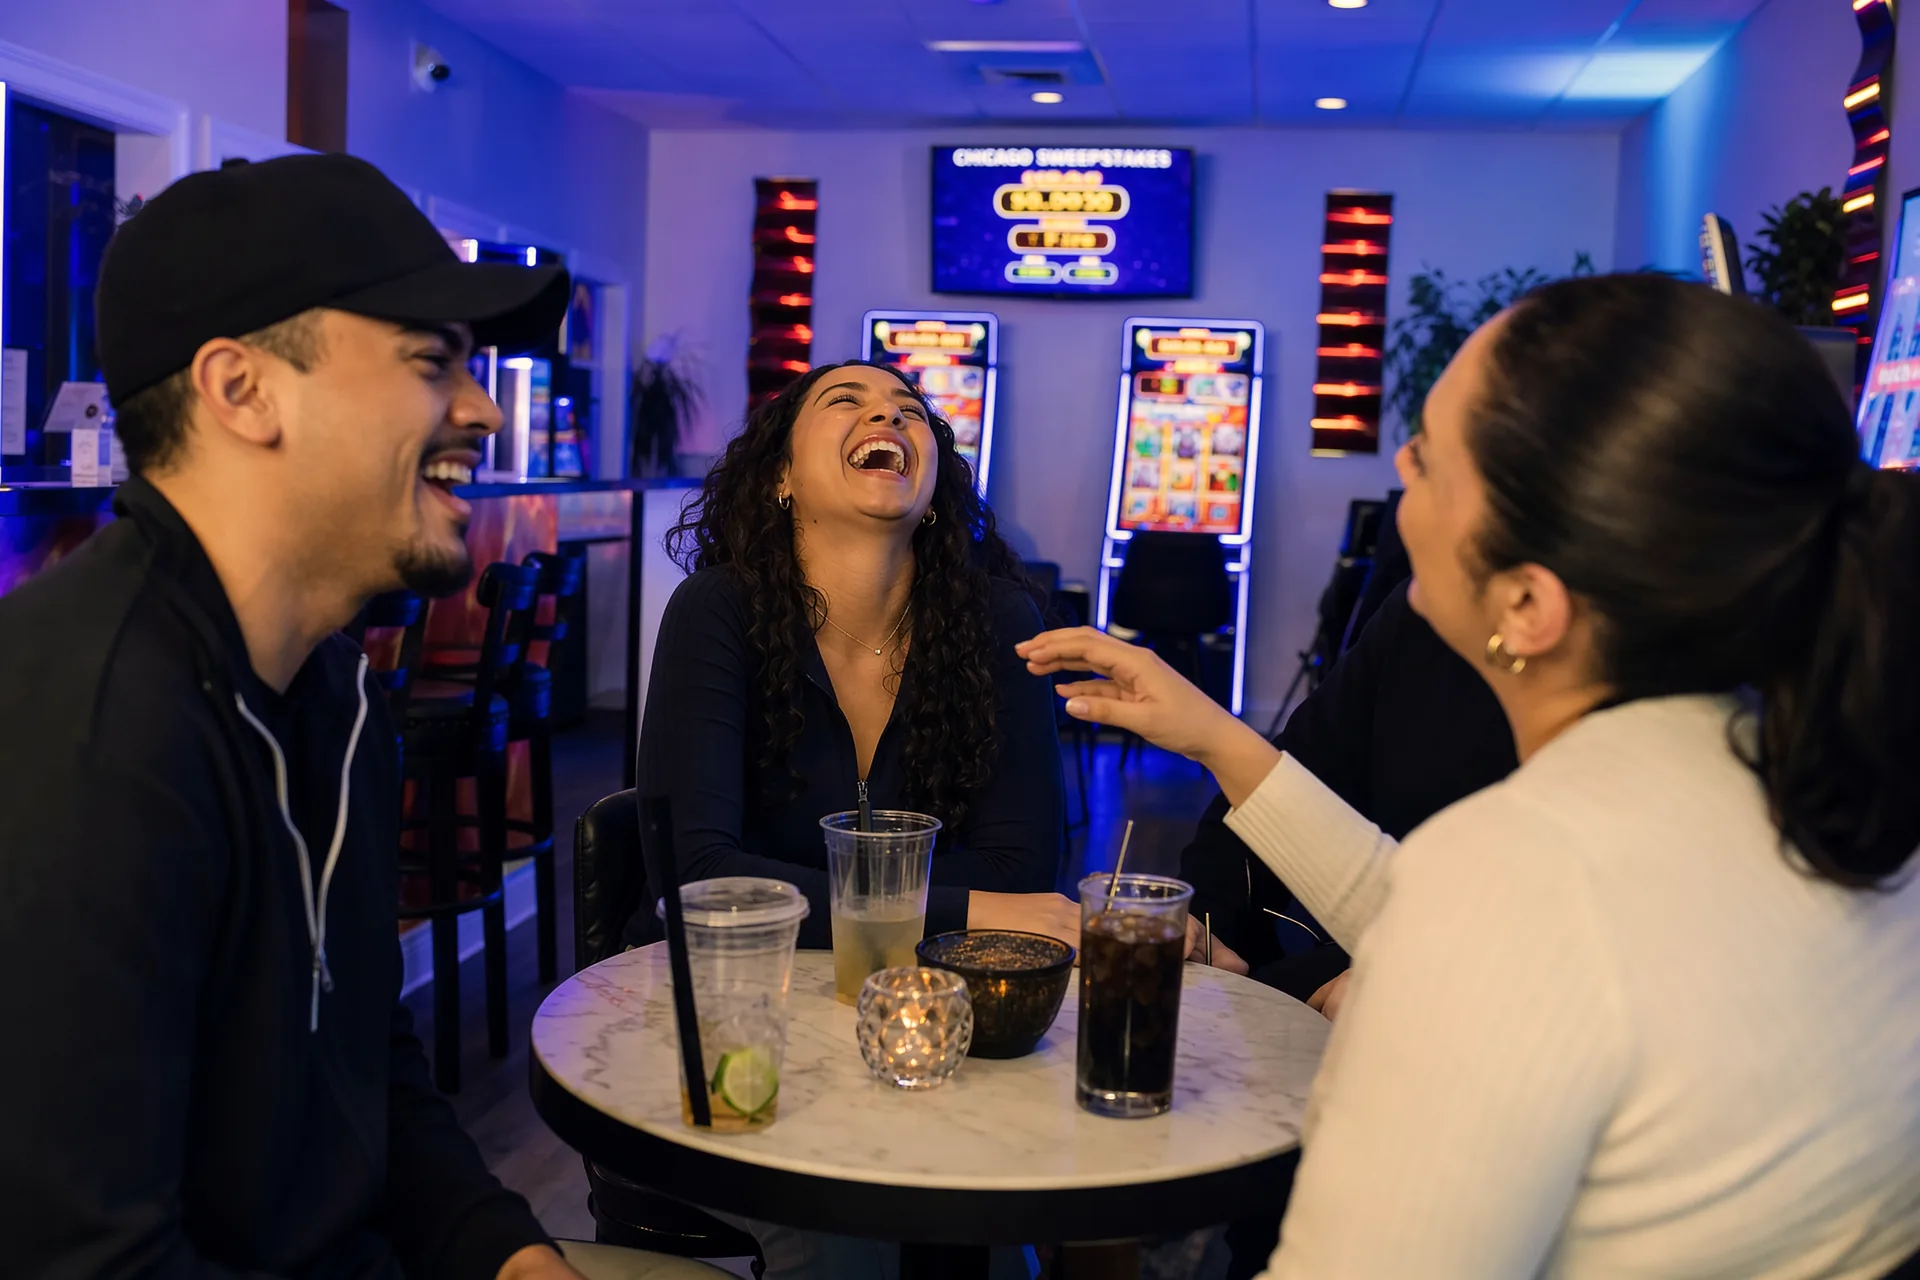
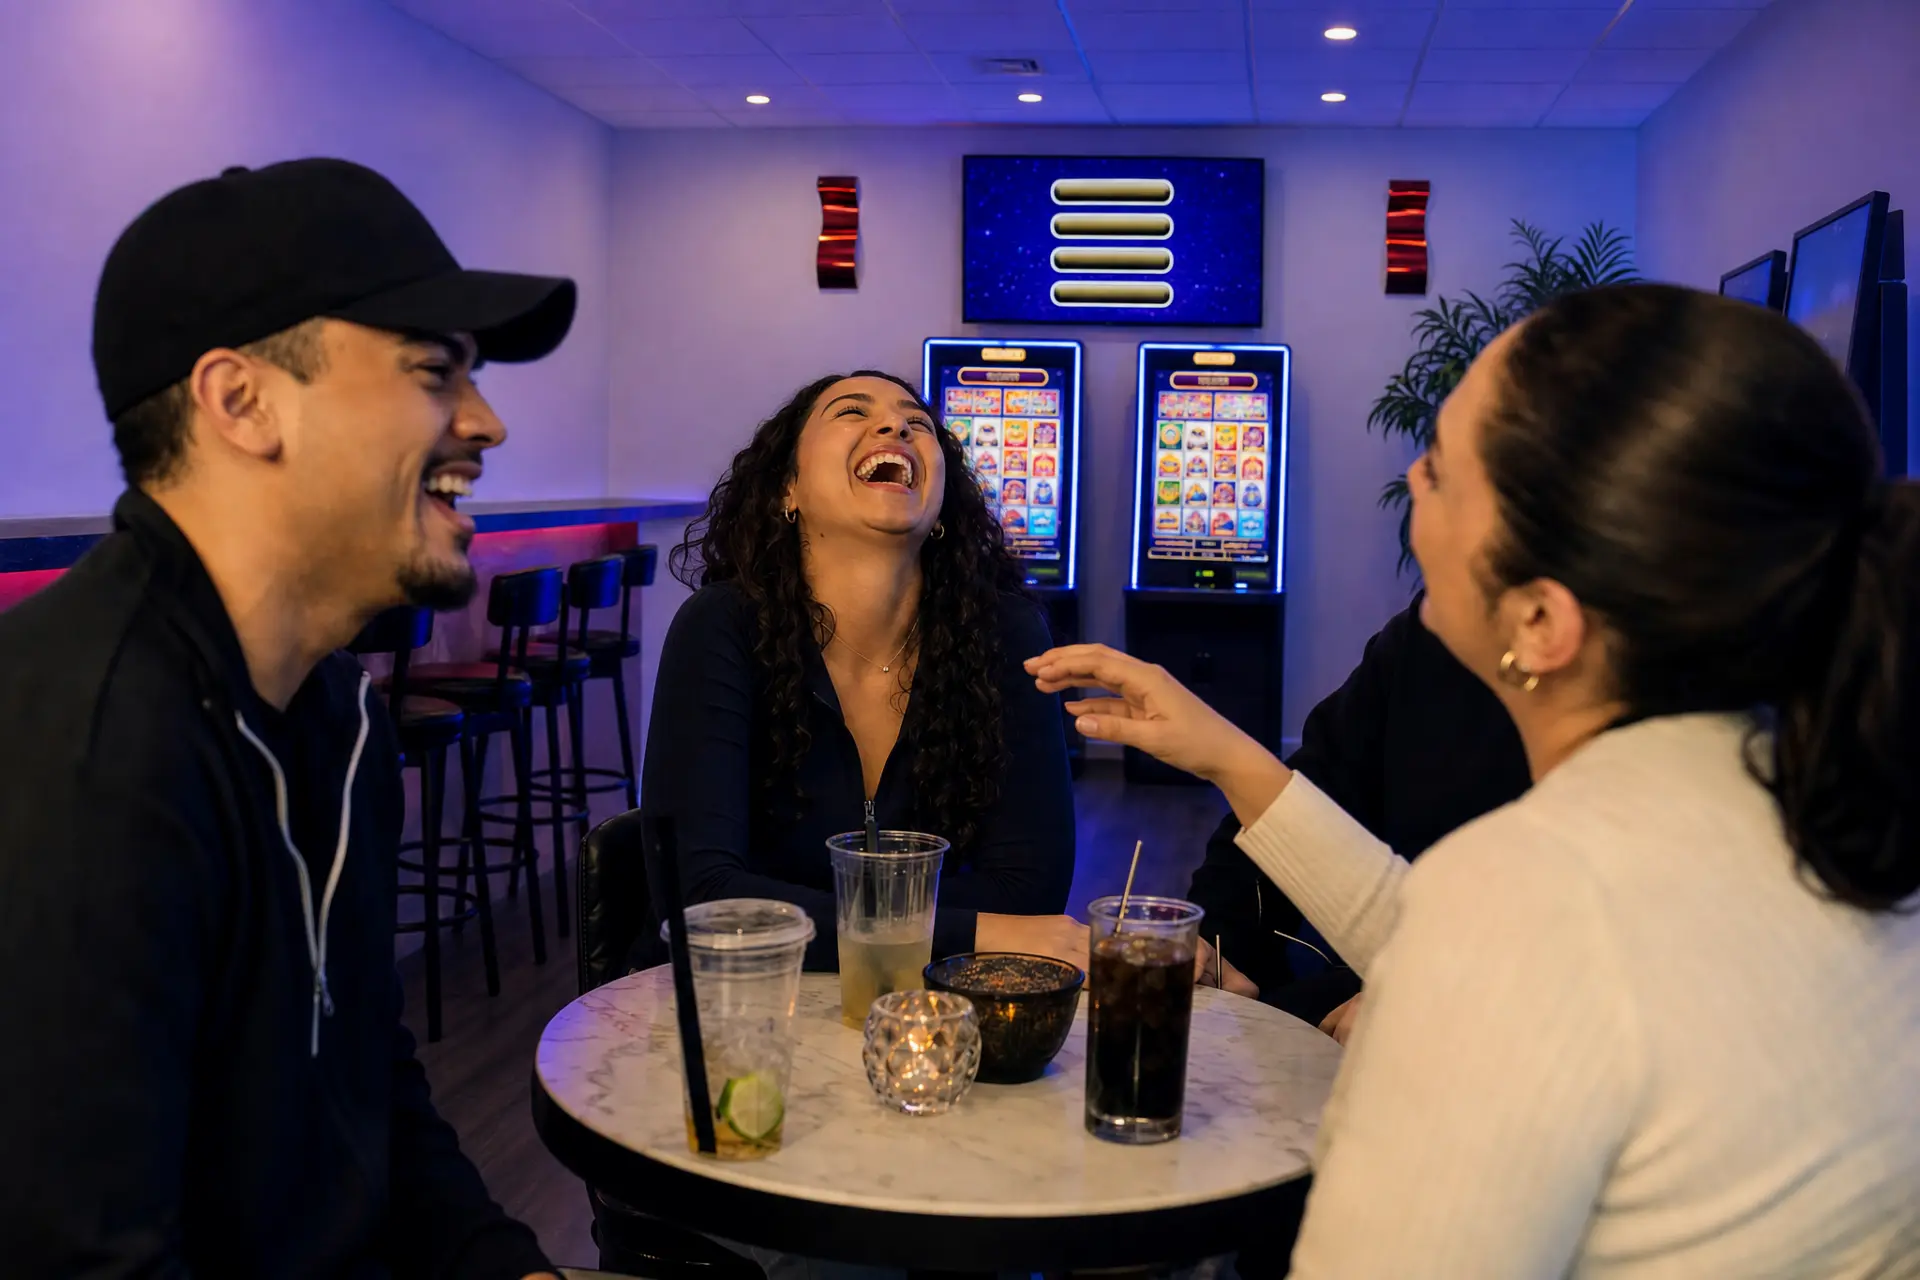
A night with friends: correct the room to the canonical map
Background-only pass — keep the three people, poses, table and lighting
identical, rebuild the wall behind them: red ribbons back to short
upper-wall accents (not floor-to-ceiling), the two back cabinets paired
under the centred sweepstakes board, plain bar wall. Faces verified
pixel-stable. First of the pre-map frames to be re-synced.

diff --git a/IMAGE-PLAN.md b/IMAGE-PLAN.md
@@ -240,7 +240,7 @@ Each occasion owns one photograph. The order is deliberate — the room gets bus
 | 3:00–5:00 | An hour that's yours | IMG-11 |
 | 5:00–6:30 | After the shift | IMG-02 |
 | 6:30–8:00 | An easy date night | IMG-10 |
-| 8:00–8:45 | A night with friends | IMG-06 |
+| 8:00–8:45 | A night with friends | IMG-06 (room-corrected 7/23) |
 | 8:45–9:30 | When nobody can agree | IMG-03 |
 | 9:30–10:15 | Something to celebrate | IMG-05 |
 | 10:15–11:00 | Before or after the main event | IMG-12 |
@@ -279,6 +279,16 @@ Fix: a luminance mask isolating only the 44–60% band (the hair rim + screen ti
 **Two lasting rules from this:** the last occasion chip gets the strongest soft-light wash, so its frame must not carry a big smooth near-white region; and resize the rail webp with **Triangle, not Lanczos** — Lanczos rings bright edges up.
 
 **Calibrate brightness against the set, don't eyeball it.** Mean grey (`magick f -colorspace Gray -format '%[fx:mean*100]' info:`) across the occasion rail runs 17–29. v1 sat at 14 — genuinely too dark, which is what Tyler flagged. v2 lands at 21.5: mid-pack, still the latest-feeling frame in the chooser, blacks uncrushed.
+
+## Room-sync corrections — bringing earlier frames onto the canonical map (started 2026-07-23)
+
+Several occasion frames were generated **before** the canonical room map was confirmed (the map firmed up 7/23; most occasions were shot 7/20–7/22), so their backgrounds drift from it. The job: keep the people, poses, composition and lighting a client already signed off on, and rebuild **only the room behind them** to the map. This is a background-only edit, not a reshoot.
+
+**Method (works, verified on "A night with friends"):** feed the approved master as the single `--image` to GPT Image 2, and write a prompt that (1) names each person + every table item as photo-identical and off-limits, (2) locks camera/framing/crop/lighting, then (3) lists the specific background corrections. GPT Image 2 held all three faces, the necklace, and every drink pixel-stable while rebuilding the wall behind a subject's head — confirmed by stacking old/new face crops. Grade to the frame's prior mean, export **Triangle** to the rail size, done.
+
+**IMG-06 "A night with friends" (`occ-friends`), fixed 7/23** — master `occ6-friends-PICKED.png`. Diffed against `space-2308`/`space-2316`: two deviations. (1) The red ribbon wall art ran long, ceiling-to-below-the-TV — the map is explicit that ribbons are **slim UPPER-wall accents ending well above the machine tops, never floor-to-ceiling**. (2) The two back-wall cabinets were spread apart; the real wall has them as a **tight pair directly under the centred CHICAGO SWEEPSTAKES board**. Surgical pass (`friends-fix.txt`) shortened the ribbons and paired the cabinets, kept the plain (mural-free) bar wall, no CCTV monitor. Graded `-brightness-contrast -1.5x0` to mean 28.7 (matching the prior 28.9), Triangle → 1920×1280 webp. Master `assets/img/_masters/occasions/occ-friends-roomfix_63c8525e.png`; the board came back as a blank-pill starfield (no readable title) — safer than risking garbled "CHICAGO SWEEPSTAKES" text, acceptable at background scale.
+
+**Still to audit against the map** (Tyler: "a few images"): walk each remaining occasion frame the same way — most likely suspects are the other pre-7/23 frames with prominent backgrounds. Diff each against the nearest real reference photo before deciding it needs a pass; don't regenerate a frame that's already accurate.
 
 ## Notes / open
 - **Room-accuracy is the gate.** The four earlier concept frames (`references/01–04`) depict a larger, wrong venue and are **mood-only** — do not reuse. Every new asset must read as *this* storefront room.